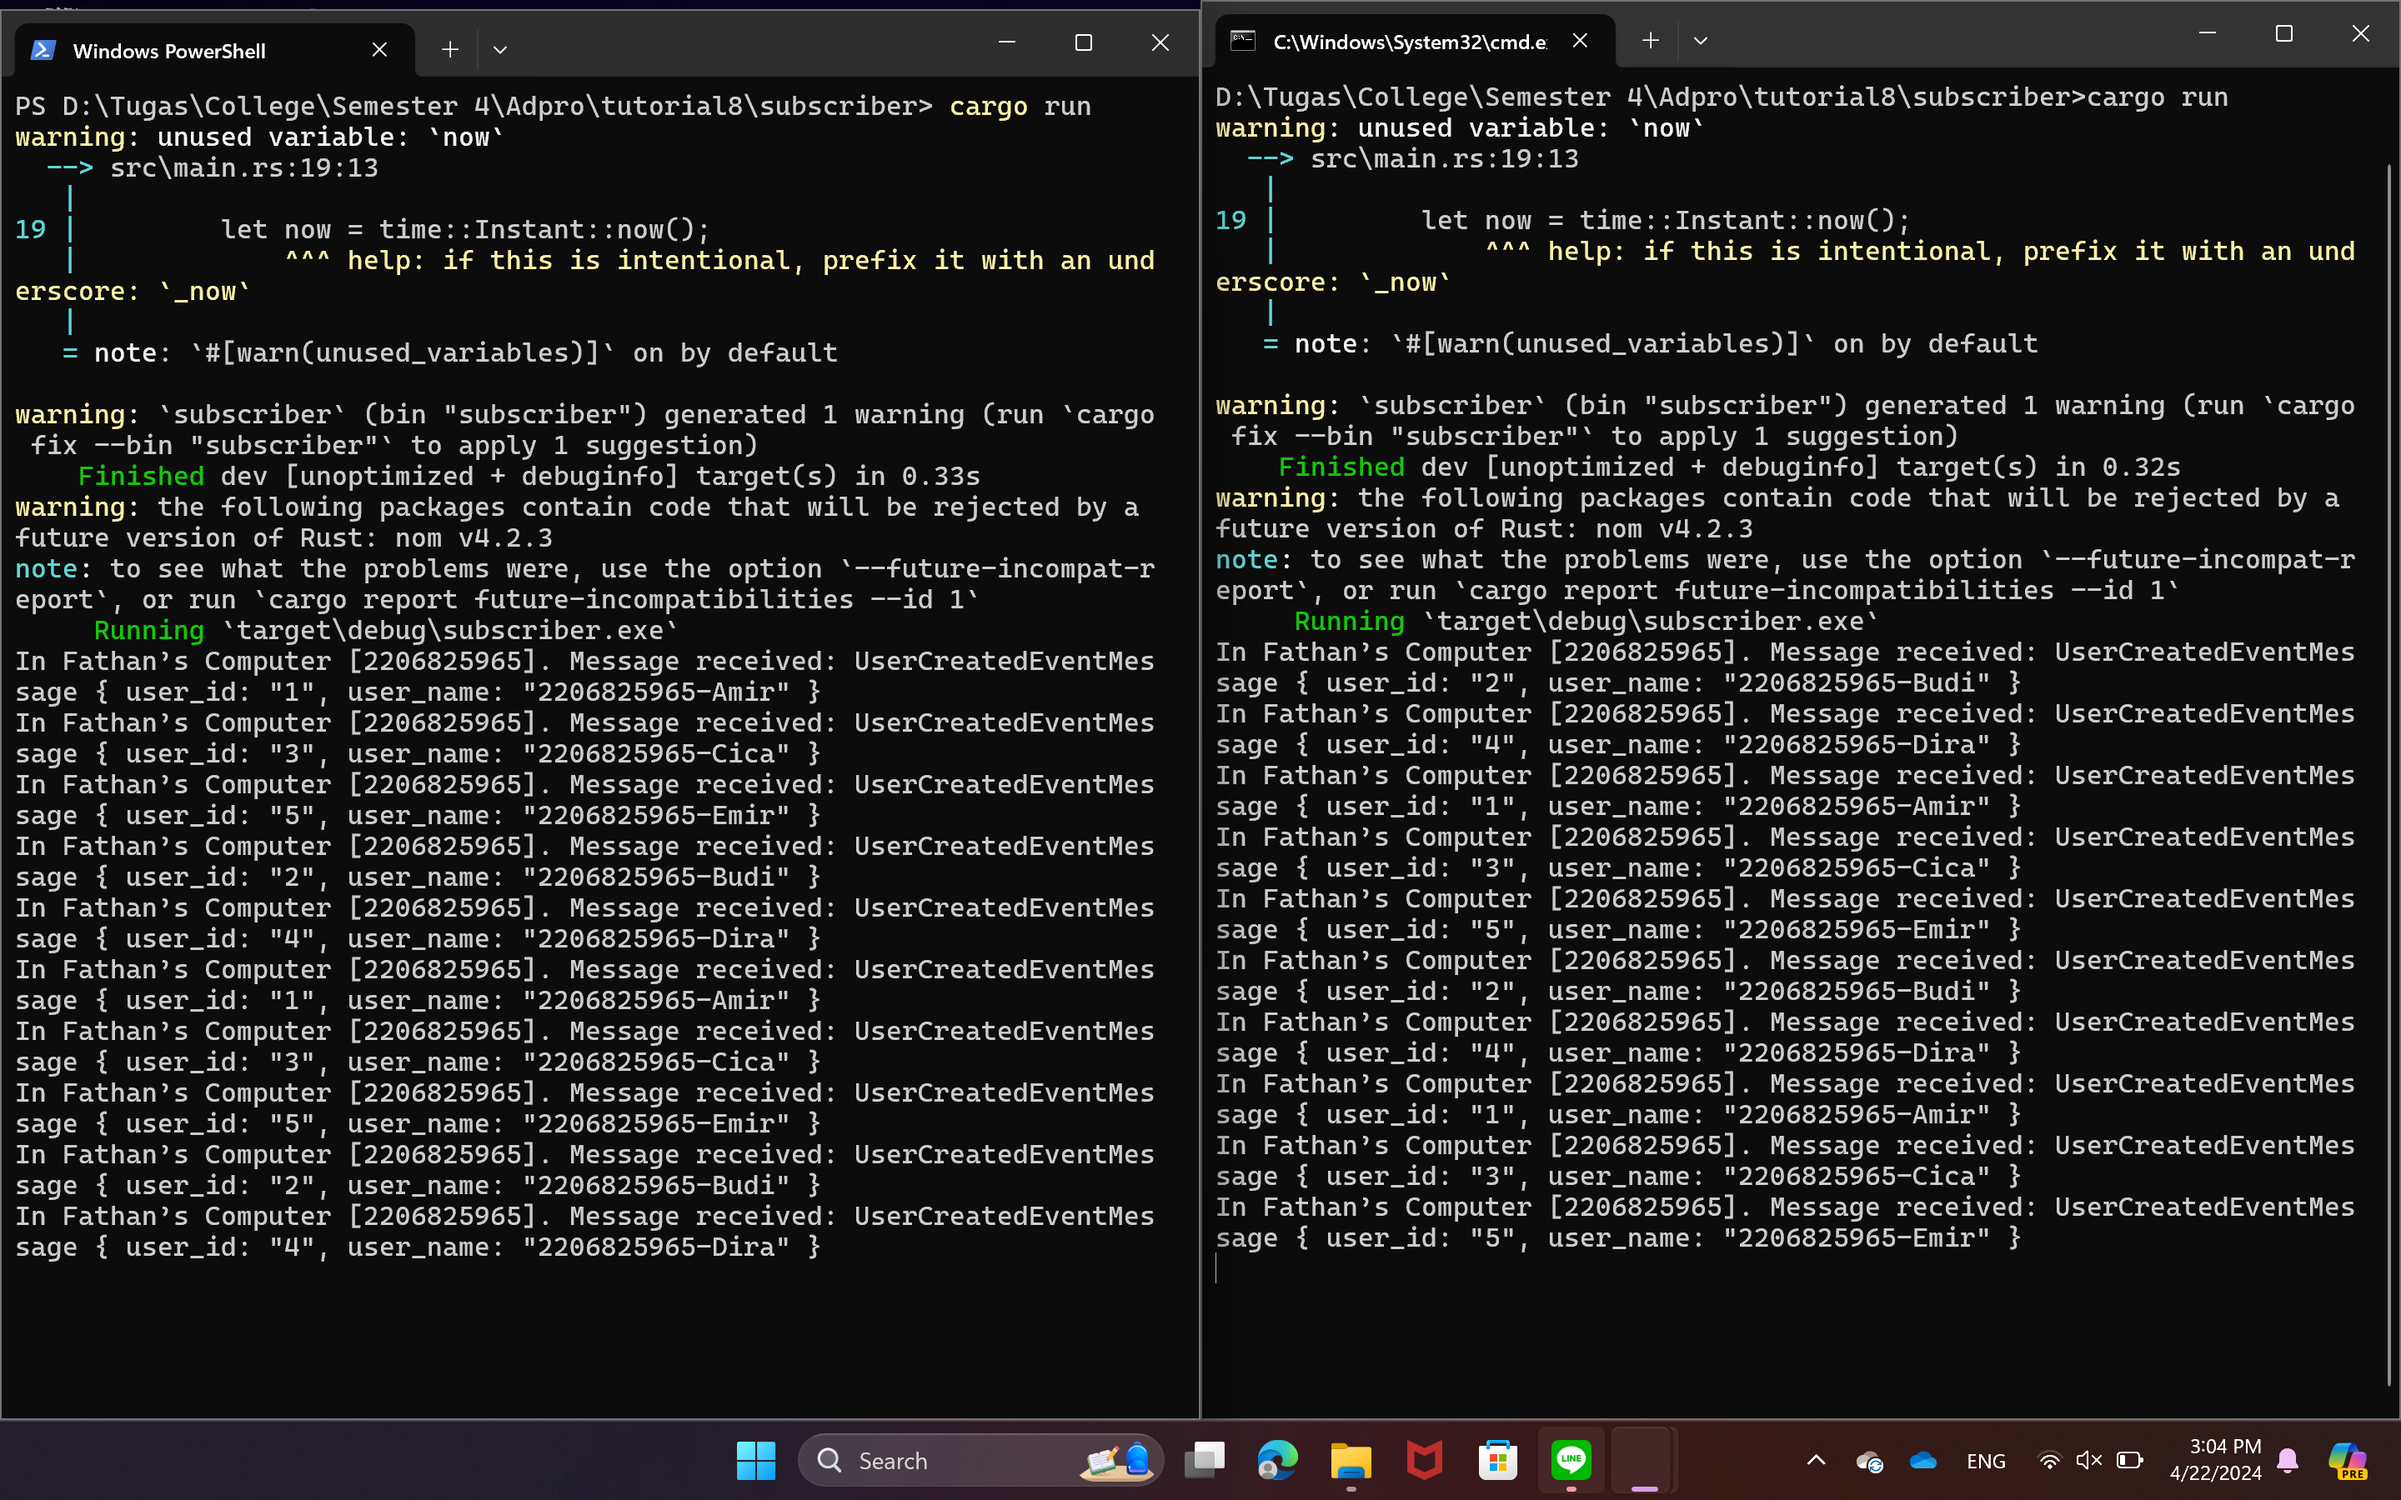
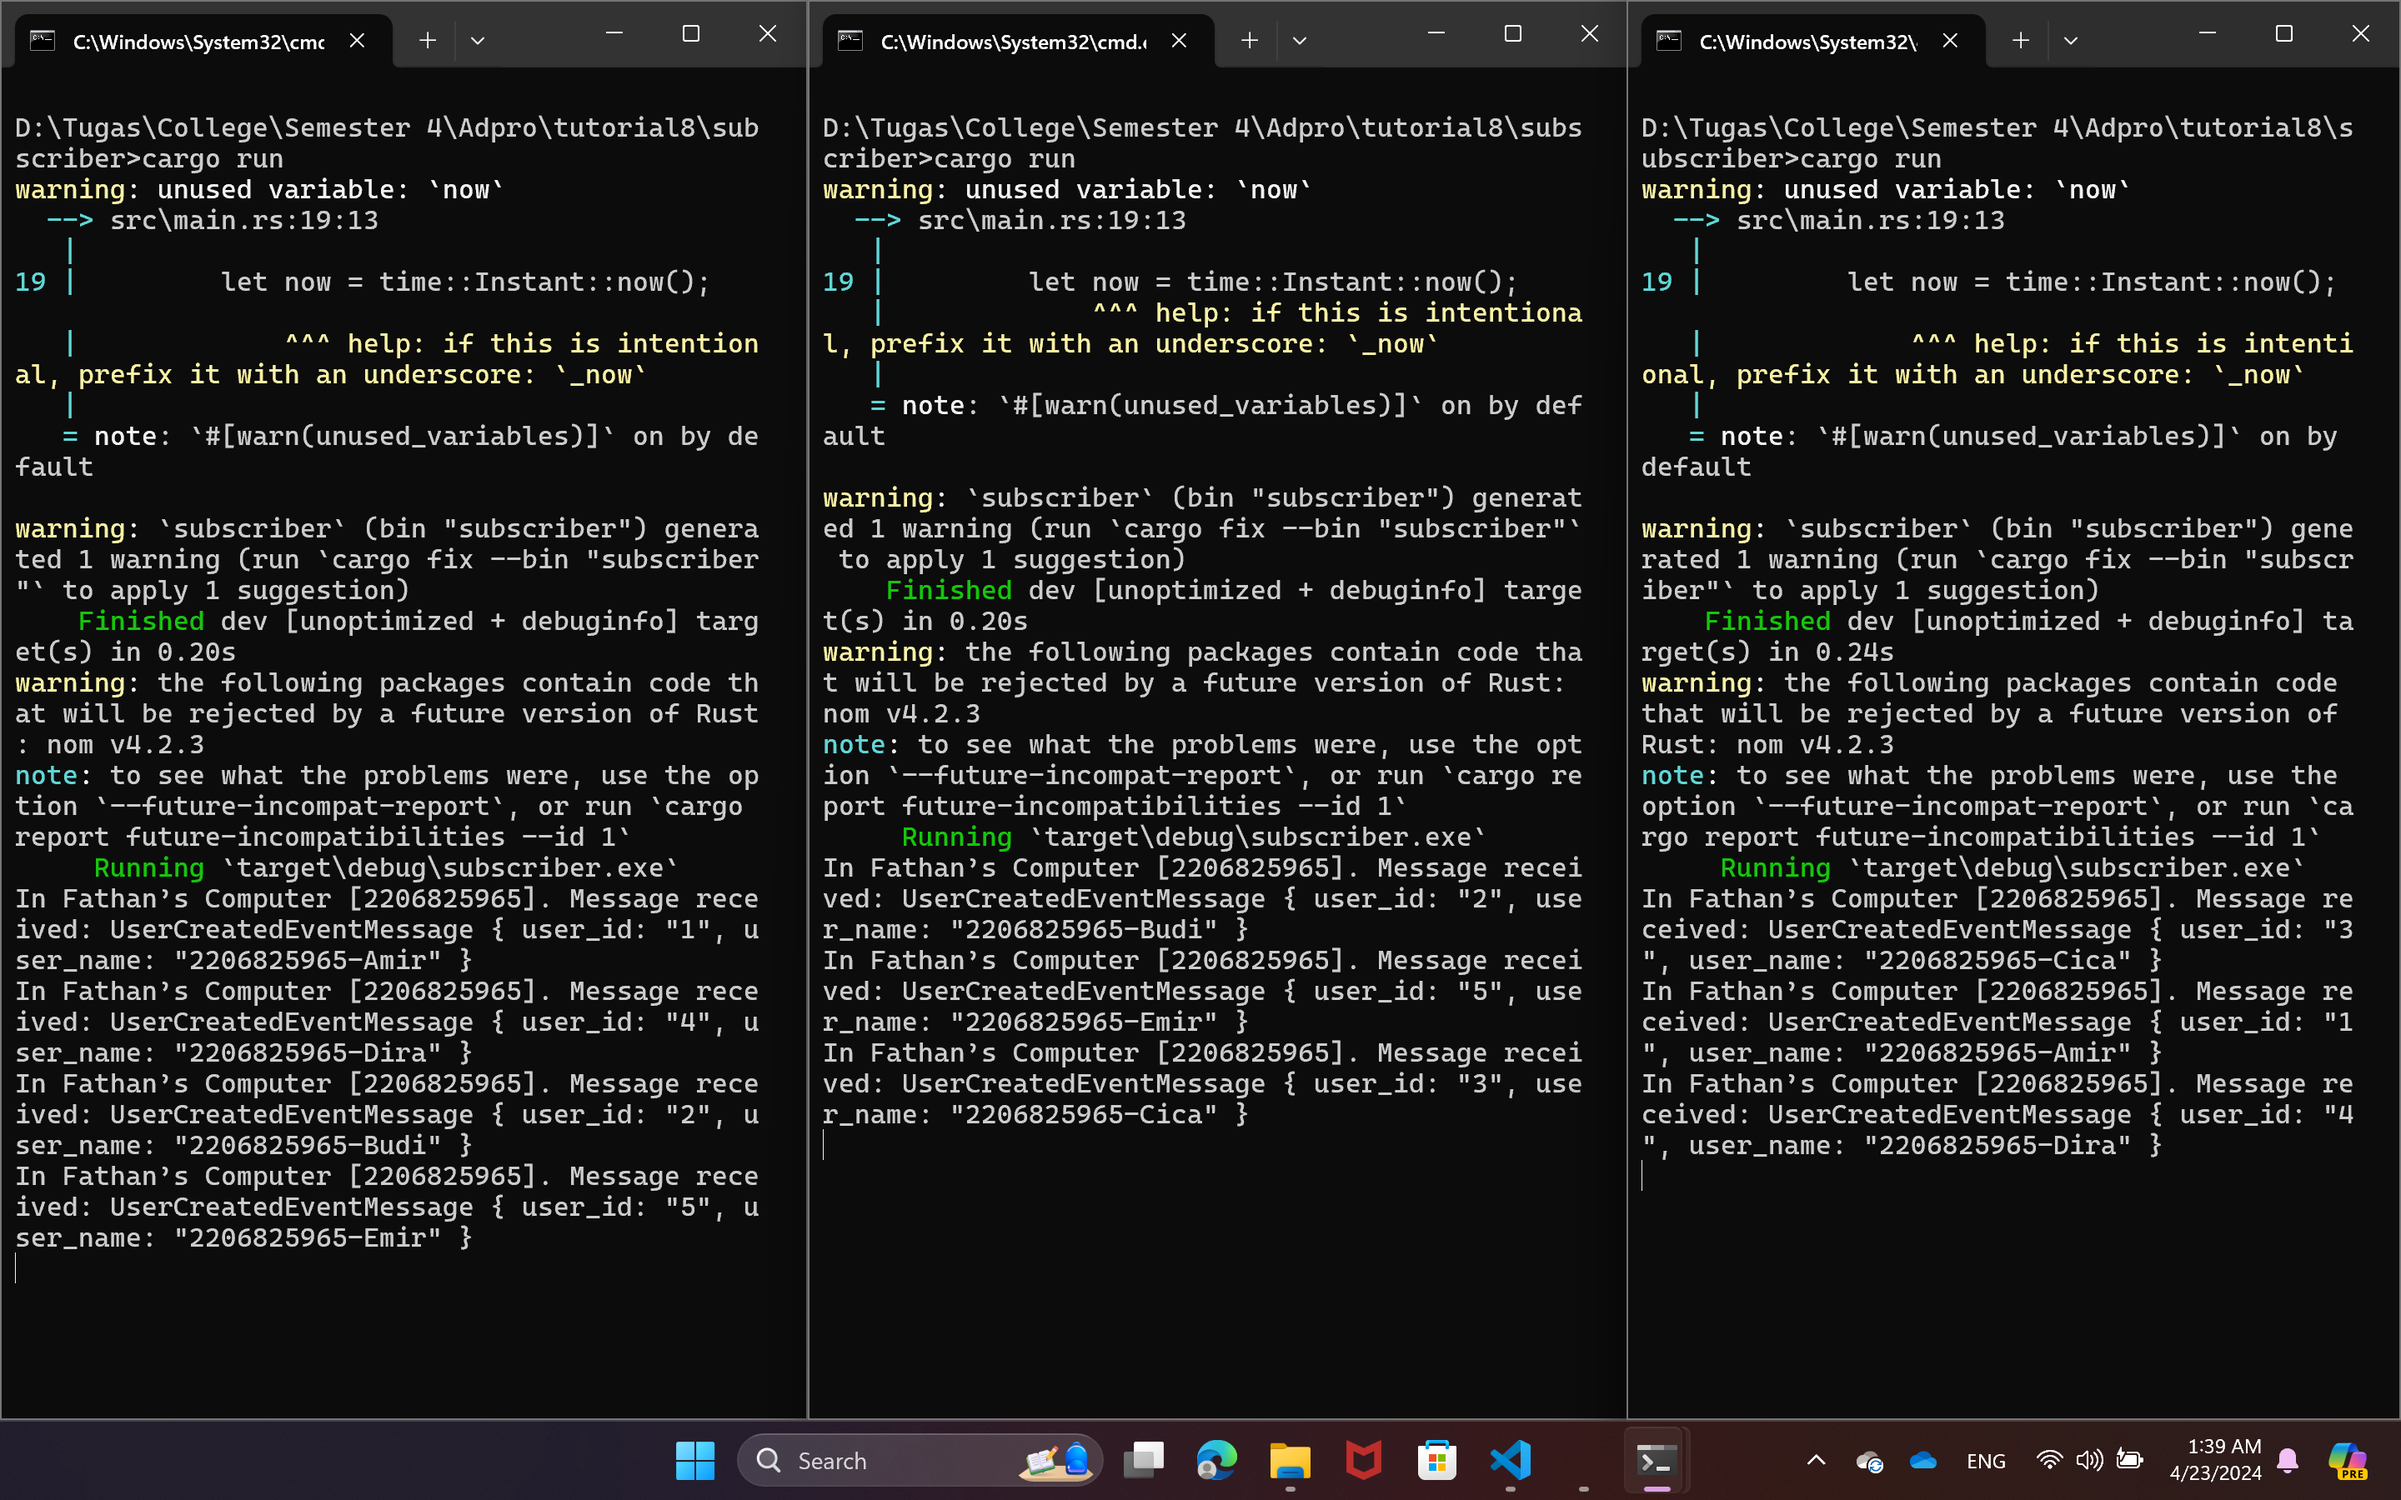
Reflection and Running at least three subscribers

diff --git a/README.md b/README.md
@@ -10,3 +10,10 @@ the second guest, and what is localhost:5672 is for? <br>
 3. Simulation slow subscriber
 ![slow subscriber](img/slow.png)
 Berbeda dengan ketika dieksekusi tanpa sleep, terlihat bahwa terdapat spike yang menyentuh angka 6 pada grafik queued message di atas. Hal ini terjadi karena ketika saya menjalankan 2 perintah `cargo run` dengan cepat pada publisher sehingga terdapat 6 pesan yang dikirim perlu dimasukkan ke queue terlebih dahulu.
+
+4. Reflection and Running at least three subscribers
+![multiple subscribers](img/mult_sub.png)
+![rabbitmq](img/rabbit_mq.png)
+Pada gambar pertama, terlihat bahwa terdapat 3 subscriber yang dijalankan. Dan ketika saya melakukan hal yang sama seperti pada poin nomor 3, yaitu menjalankan 2 perintah `cargo run` dengan cepat, semua pesan yang dikirim dibagi eksekusinya ke 3 subscriber tersebut. Hal ini mengakibatkan grafik yang dihasilkan seperti pada gambar 2. Meskipun dieksekusi dengan sleep, dapat dilihat dari grafik queued messages, sekarang tidak ada message yang masuk ke queue. Hal ini terjadi karena message telah dieksekusi oleh 3 subscriber berbeda sehingga message tidak perlu lagi mengantri di queue untuk dieksekusi.
+
+
